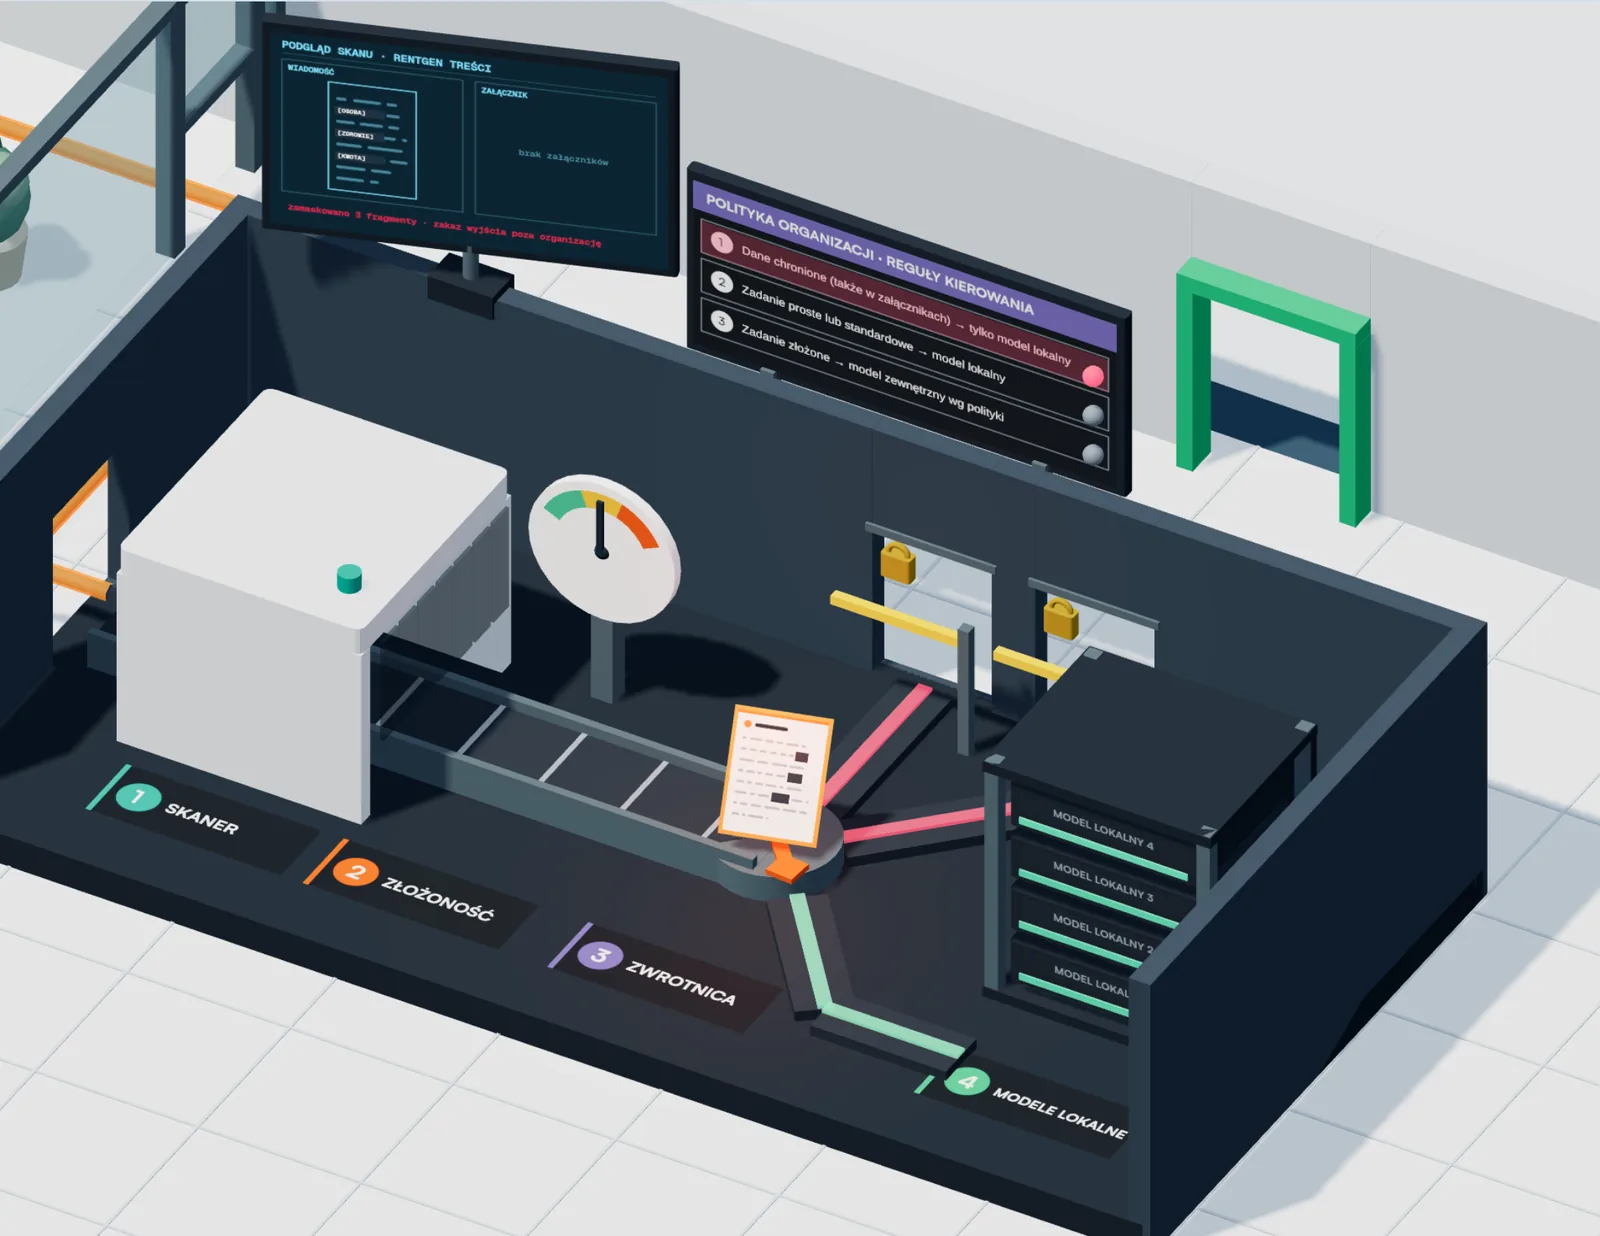
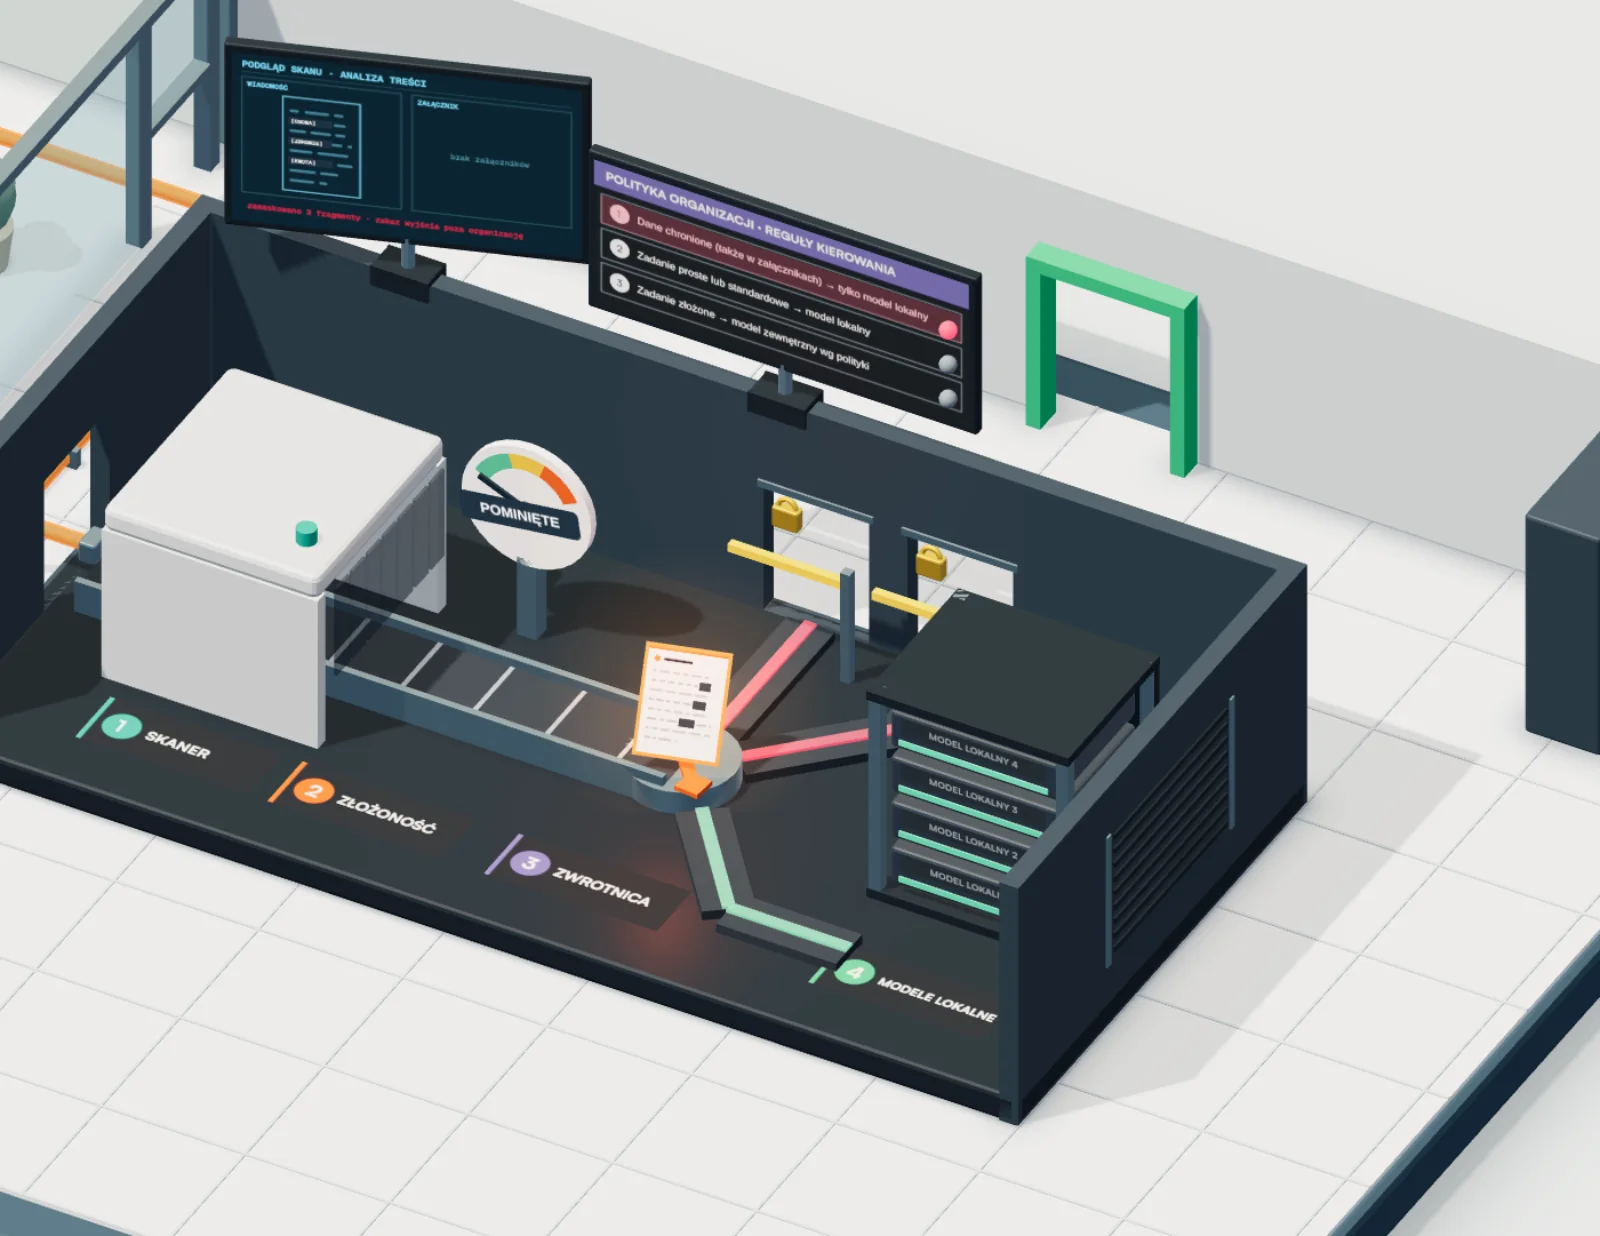
Home page: stills of the relit server interiors

diff --git a/README.md b/README.md
@@ -65,7 +65,7 @@ Invariant: a document the user cannot read is never cited (`tests/zagloba.cjs` +
 - `klara-stations.js`, `klara-app.js` / `zagloba-stations.js`, `zagloba-app.js` – each product's stations and content; the app file declares the product's one admin setting (URL parameter, `App.*` setter, `data-*` attribute, self-test matrix) and its contract and probe hooks.
 - `zagloba-data.js` – sources, documents, questions and the pure `decide(question, settings)` (permissions, re-ranking, abstention).
 - `klara-data.js` – scenes, prompts (incl. an attachment), routes, `protectedItems()` and the pure `decide(prompt, policy)`. Invariant: protected data, in the prompt or an attachment, is never routed externally.
-- `index.html` – the home page (`#home` gets `data-ready="true"` once its script has run): a choice between the two journeys, each shown as a still of its 3D server interior (`assets/home/klara.webp` = `klara.html?scene=route&prompt=sensitive`, `assets/home/zagloba.webp` = `zagloba.html?scene=rank&prompt=procedure`; `#stage` captured at 2× with labels hidden, saved as 1600 px WebP).
+- `index.html` – the home page (`#home` gets `data-ready="true"` once its script has run): a choice between the two journeys, each shown as a still of its 3D server interior (`assets/home/klara.webp` = `klara.html?scene=route&prompt=sensitive`, `assets/home/zagloba.webp` = `zagloba.html?scene=rank&prompt=procedure`; `#stage` at 800 × 618 captured at 2× with labels hidden, zoomed out three wheel steps, saved as 1600 px WebP).
 - `klara.html` / `zagloba.html` – each product's shell with its accent and world tokens (`--world-*` drive the 3D colours).
 - `assets/brand/` – favicon and the Quantica logo; `assets/home/` – the two home page stills.
 - `tests/` – `harness.cjs` (sandbox loader, `test()`, the em-dash scan over every shipped text file, run from `route.cjs`), `route.cjs` (Klara's routing), `zagloba.cjs` (Zagłoba's retrieval), `browser.mjs` (headless Chrome: home page, both apps, self-tests, keyboard playthroughs, phone width, the schematic fallback; `--only=` sections), `quick.sh` (the quick tier).
